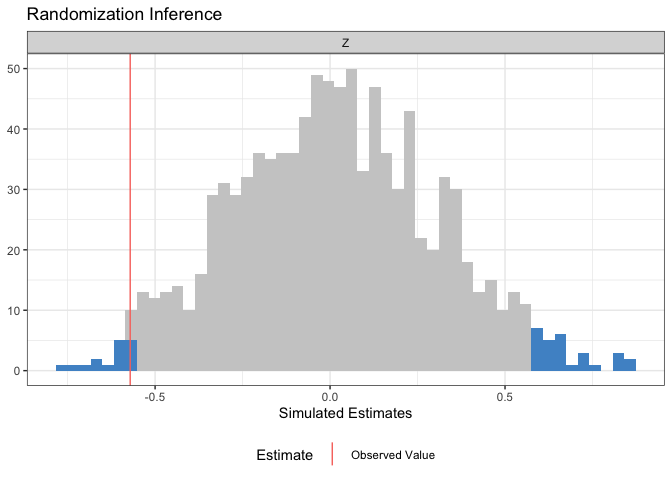
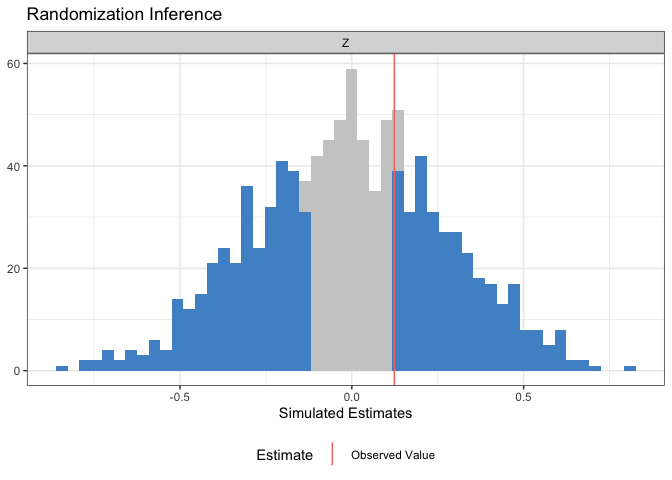
Require a successful Codecov upload; add coverage badge
A CODECOV_TOKEN repository secret now exists, so uploads no longer fail
with "Token required". Set fail_ci_if_error to true, which was held at
false only because a missing token would otherwise have turned every run
on master red for a reason unrelated to the code.

Adds the coverage badge alongside the existing three.

diff --git a/README.md b/README.md
@@ -6,6 +6,8 @@
 <!-- badges: start -->
 
 [![R-CMD-check](https://github.com/acoppock/ri2/actions/workflows/R-CMD-check.yaml/badge.svg)](https://github.com/acoppock/ri2/actions/workflows/R-CMD-check.yaml)
+[![Codecov test
+coverage](https://codecov.io/gh/acoppock/ri2/graph/badge.svg)](https://app.codecov.io/gh/acoppock/ri2)
 [![CRAN
 status](https://www.r-pkg.org/badges/version/ri2)](https://CRAN.R-project.org/package=ri2)
 [![Downloads](https://cranlogs.r-pkg.org/badges/grand-total/ri2)](https://CRAN.R-project.org/package=ri2)
@@ -72,8 +74,8 @@ plot(ri_out)
 
 ``` r
 summary(ri_out)
-#>   term   estimate two_tailed_p_value
-#> 1    Z -0.5711395              0.044
+#>   term  estimate two_tailed_p_value
+#> 1    Z 0.1235293              0.658
 ```
 
 The development of ri2 is supported by a Standards Grant from
